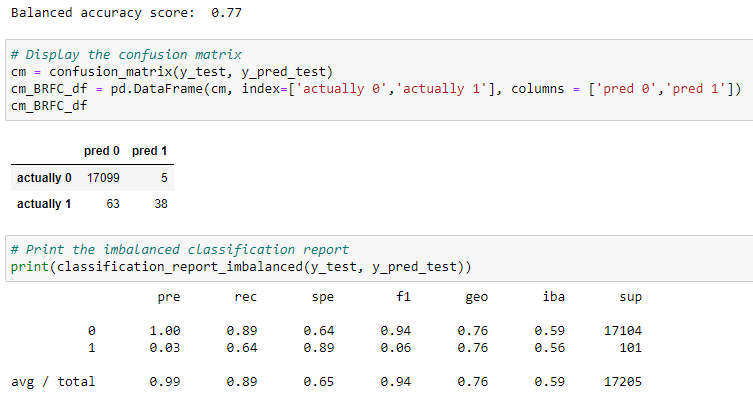
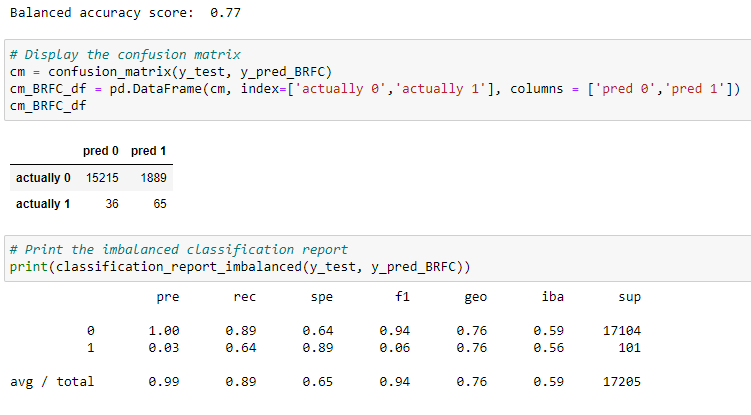
Updated README with evaluation of resampling and classification results

diff --git a/README.md b/README.md
@@ -1,1 +1,110 @@
-# Credit_Risk_Analysis
+# Credit_Risk_Analysis  
+  
+### Overview of Analysis  
+  
+The project goal is to evaluate resampling and ensemble classification algorithms using a  credit risk dataset from Q1 2019 of LendingClub.  The number of low risk loans significantly outnumbers the number of high risk loans; the dataset is unbalanced.  
+  
+The project evaluated the success of a series of resampling algorithms using the sklearn  logistic regression:  
+  
+1. The imblearn library RandomOverSampler  
+2. The imblearn SMOTE oversampler  
+3. The imblearn ClusterCentroids undersampler  
+4. The imblearn combination over and under sampler SMOTEENN  
+  
+The project further evaluated 2 endemble classification algorithms:  
+  
+1. The imblearn balanced random forest classifier  
+2. The sklearn ada boost classifier  
+  
+The results of the logistic regressions and the ensemble classifiers are determined from the balanced accuracy scores and the precision, recall, and f1 scores (calculated from the confusion matrices).  
+  
+### Results:  
+
+The results of logistic regression after resampling are summarized below.  
+![random oversampling](random_oversampling_results.png)  
+The random over sampler:  
+- balanced accuracy score:  0.58  
+- precision:  
+- - for low risk- 1.0:  11497/(11497+37)  
+- - for high risk - 0.01:  67/(67+5604)  
+- recall:  
+- - for low risk- 0.67:  11497/(11497+5604)  
+- - for high risk- 0.64:  67/(67+37)  
+- f1 score:  
+- - for low risk- 0.8  
+- - for high risk- 0.02  
+  
+![SMOTE oversampling](SMOTE_oversampling_results.png)  
+The SMOTE over sampler:  
+- balanced accuracy score:  0.65  
+- precision:  
+- - for low risk- 1.0:  12563/(12563+46)  
+- - for high risk - 0.01:  58/(58+4538)  
+- recall:  
+- - for low risk- 0.73:  12563/(12563+4538)  
+- - for high risk- 0.56:  58/(58+46)  
+- f1 score:  
+- - for low risk- 0.85  
+- - for high risk- 0.02
+  
+![Undersampling](undersampling_results.png)  
+The cluster centroids under sampler:  
+- balanced accuracy score:  0.53  
+- precision:  
+- - for low risk- 0.99:  9164/(9164+49)  
+- - for high risk - 0.01:  55/(55+7937)  
+- recall:  
+- - for low risk- 0.54:  9164/(9164+7937)  
+- - for high risk- 0.53:  55/(55+49)  
+- f1 score:  
+- - for low risk- 0.7  
+- - for high risk- 0.01  
+
+![Combination over and under](SMOTEENN_resampling_results.png)  
+The SMOTEENN combination resampler:  
+- balanced accuracy score:  0.66  
+- precision:  
+- - for low risk- 1.0:  11497/(11497+37)  
+- - for high risk - 0.01:  67/(67+5604)  
+- recall:  
+- - for low risk- 0.67:  11497/(11497+5604)  
+- - for high risk- 0.64:  67/(67+37)  
+- f1 score:  
+- - for low risk- 0.8  
+- - for high risk- 0.02  
+
+![balanced random forest classifier](balanced_random_forest_classifier_results.png)  
+The balanced random forest classifier:  
+- balanced accuracy score:  0.77  
+- precision:  
+- - for low risk- 1.0:  15215/(15215+36)  
+- - for high risk - 0.03:  65/(65+1889)  
+- recall:  
+- - for low risk- 0.89:  15215/(15215+1889)  
+- - for high risk- 0.64:  65/(65+36)  
+- f1 score:  
+- - for low risk- 0.94  
+- - for high risk- 0.06  
+
+![Ada boost classifier](ada_boost_classifier_results.png)  
+The Ada boost classifier:  
+- balanced accuracy score:  0.69  
+- precision:  
+- - for low risk- 1.0:  17099/(17099+63)  
+- - for high risk - 0.88:  38/(38+5)  
+- recall:  
+- - for low risk- 1.0:  17099/(17099+5)  
+- - for high risk- 0.38:  38/(38+63)  
+- f1 score:  
+- - for low risk- 1.0  
+- - for high risk- 0.53  
+  
+### Summary:  
+  
+The challenge in the credit risk dataset is to categorize the high credit risks (1 in this dataset).  In general, the resampling algorithms evaluated with the logistic regressor perform poorly.  None of the resampling algorithms seem to help identify the high credit risks.  
+  
+The ensemble classification models perform better but neither algorithm is ideal.  
+  
+The balanced random forest does identify 64% of the actual high credit risks, but there are thousands of false positives.  
+  
+THe Ada boost classifier has considerably fewer false positives for high credit risk.  However, it only identifies 38% of the actual high credit risks.  
